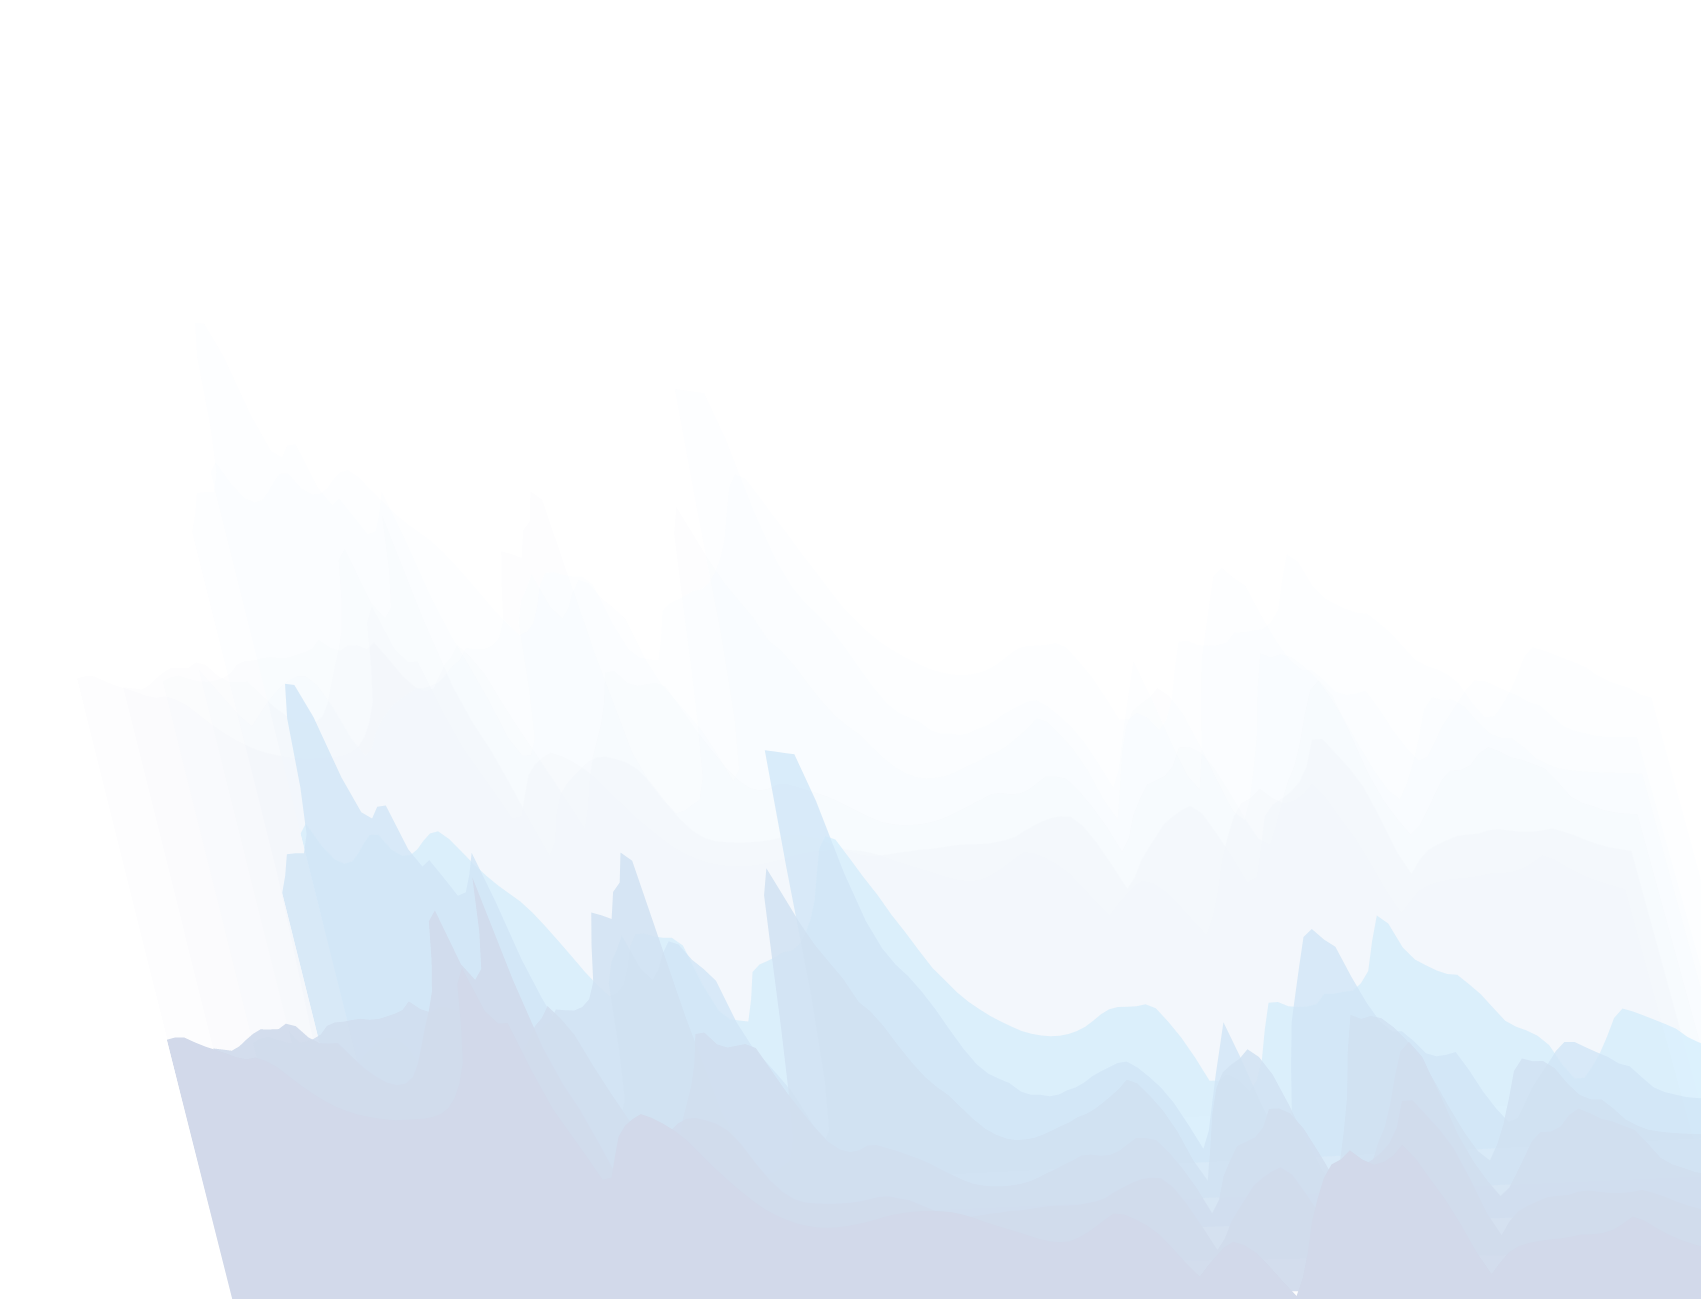
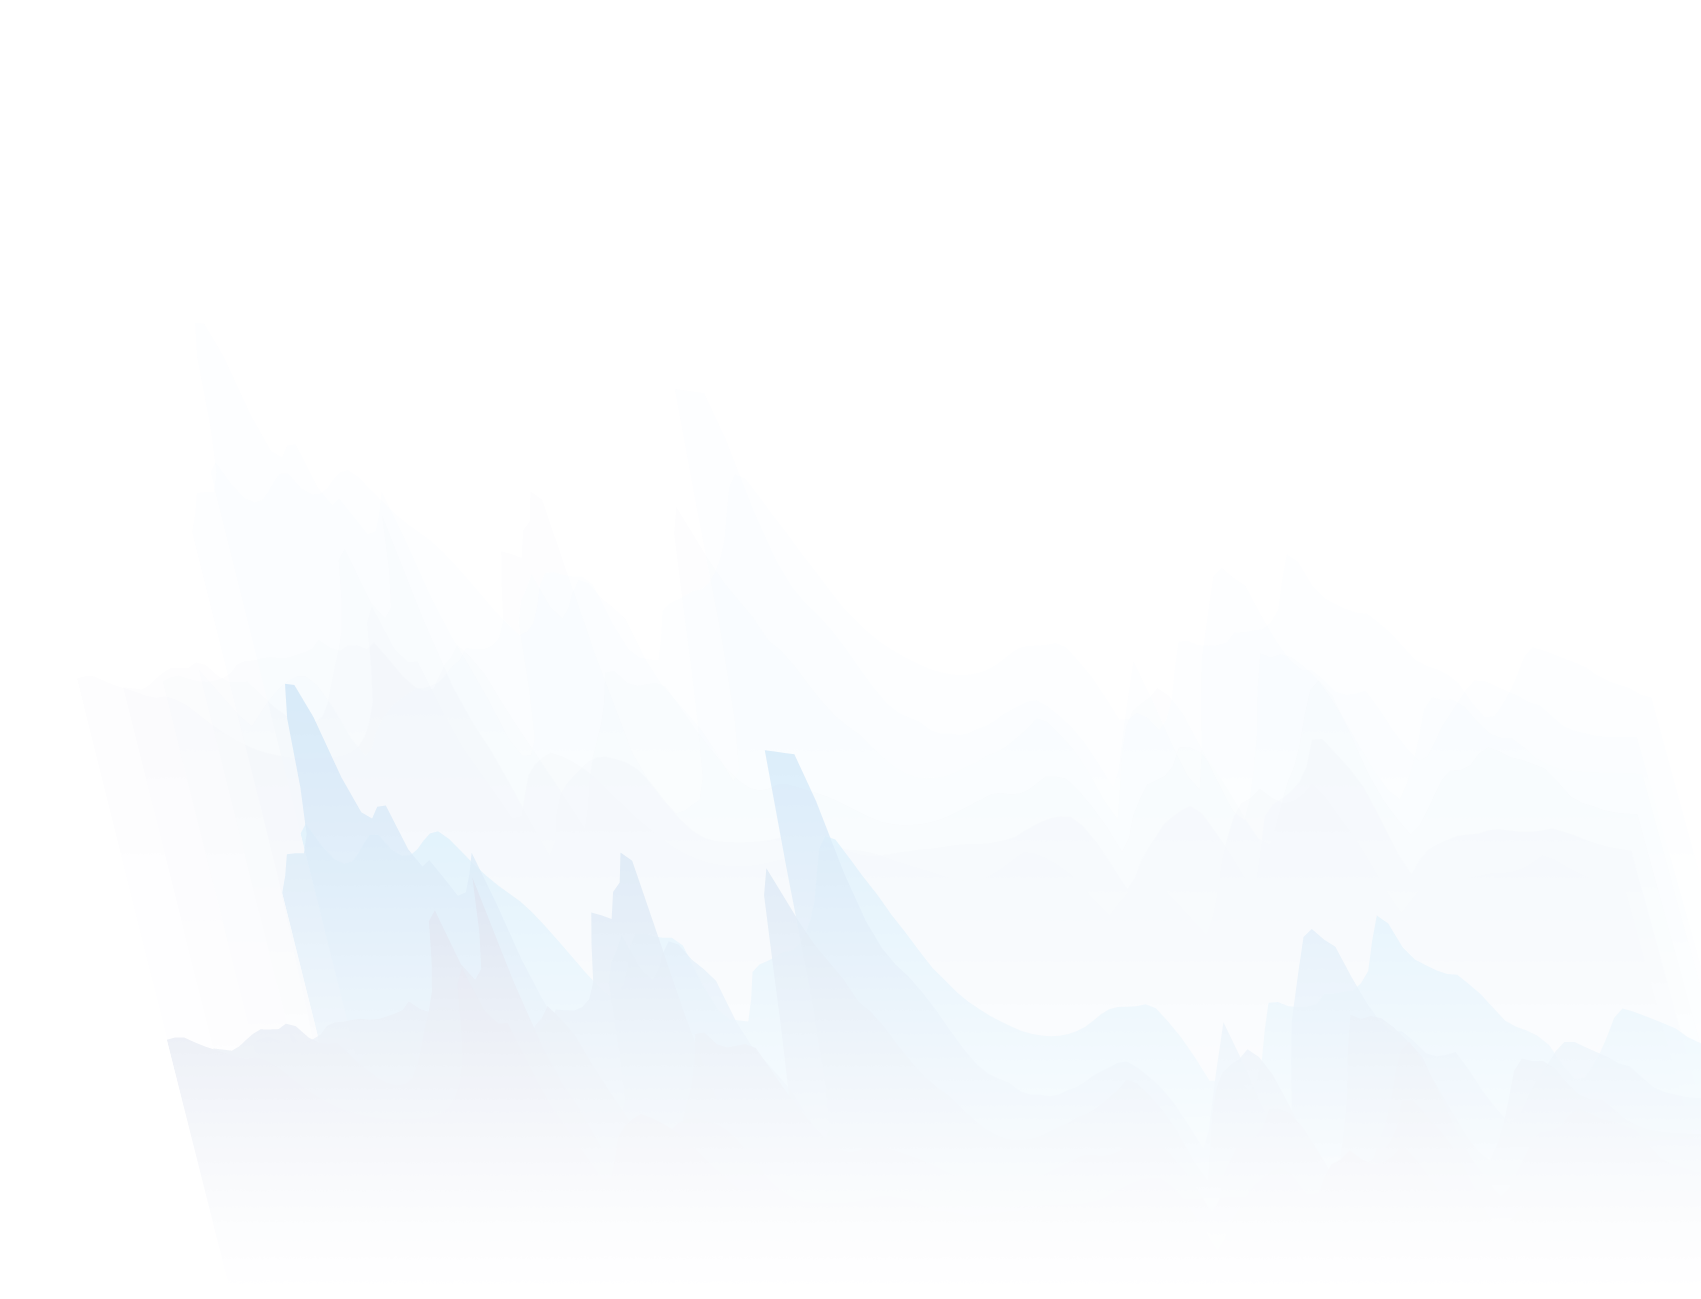
test

Changed region(s): [[0.0935, 0.7698, 1.0, 1.0]]

diff --git a/css/style.css b/css/style.css
@@ -5,17 +5,23 @@
     padding: 0;
     margin: 0;
     box-sizing: border-box;
+
   }
 
 body {
-  background-color: #174e64;
   align-items: center;
   position: absolute;
   width: 100%;
   height: 100vh;
   overflow-x: hidden;
 }
-
+.bg{
+  background-image: radial-gradient(circle, #1096b2, #138ba4, #158097, #16758a, #176a7d, #176376, #165b6f, #165468, #174e64, #19475f, #1b415a, #1d3b55);
+  position: absolute;
+  width: 100vw;
+  height: 600vh;
+  z-index: -1;
+}
 /*******************************Preloader******************************/
 
 .preloader{
@@ -81,8 +87,6 @@ nav a:hover{
   width: 45vw;
 }
 .banner {
-  background: #0f0c29; 
-  background-image: radial-gradient(circle, #1096b2, #138ba4, #158097, #16758a, #176a7d, #176376, #165b6f, #165468, #174e64, #19475f, #1b415a, #1d3b55);
   width: 100%;
   height: 100vh;
   display: flex;
@@ -91,12 +95,14 @@ nav a:hover{
 }
 
 .banner h1{
+  z-index: 2;
   color: #e5e5e5;
   font-size: 40pt;
   font-weight: 600;
   line-height: 40pt;
 }
 .banner p{
+  z-index: 2;
   color: #e5e5e5;
   font-size: 15pt;
   font-weight: 200;
@@ -120,7 +126,6 @@ nav a:hover{
 .about{
   width: 100vw;
   height: 100vh;
-  background-color: #f4f7fa;
   display: flex;
   position: relative;
 }
@@ -168,9 +173,7 @@ nav a:hover{
 
 /********************************Team*******************************/
 .team{
-  background: #0f0c29; 
-  background: -webkit-linear-gradient(to right, #10101c, #201d43, #0f0c29); 
-  background: linear-gradient(to right, #10101c, #201d43, #0f0c29); 
+
   width: 100%;
   height: 100vh;
   display: flex;
@@ -308,7 +311,7 @@ nav a:hover{
 .partner{
   width: 100vw;
   height: 100vh;
-  background-color: #f4f7fa;
+
   position: relative;
   text-align: center;
   color: #1096b2;
@@ -377,9 +380,7 @@ nav a:hover{
 }
 /******************************Advisors********************************/
 .advisor{
-  background: #0f0c29; 
-  background: -webkit-linear-gradient(to right, #10101c, #201d43, #0f0c29); 
-  background: linear-gradient(to right, #10101c, #201d43, #0f0c29); 
+
   width: 100%;
   height: 100vh;
   position: relative;
@@ -499,7 +500,6 @@ nav a:hover{
 .environment{
   width: 100vw;
   height: 100vh;
-  background-color: #f4f7fa;
   position: relative;
   text-align: center;
   color: #1096b2;
@@ -631,7 +631,7 @@ nav a:hover{
     width: 80px;
     cursor: pointer;
     position: absolute;
-    margin-left: 35vw;
+    margin-left: 40vw;
   }
   .menu-header{
     width: 20px;

diff --git a/index.html b/index.html
@@ -12,6 +12,11 @@
     <link rel="stylesheet" href="css/preloader.css">
 </head>
 <body class="hidden-overflow">
+    <div class="bg">
+        
+    </div>
+      <!--Particles-->
+      <div id="particles-js" class="particles-js"></div> 
     <!--Preloader-->
     <div class="preloader" id="preloader">
         <div class="lds-heart"><div></div></div>
@@ -29,8 +34,7 @@
             </ul>
         </nav>
     </header>
-    <!--Particles-->
-    <div id="particles-js" class="particles-js"></div> 
+  
     <!--Banner-->
     
     <section class="banner">
